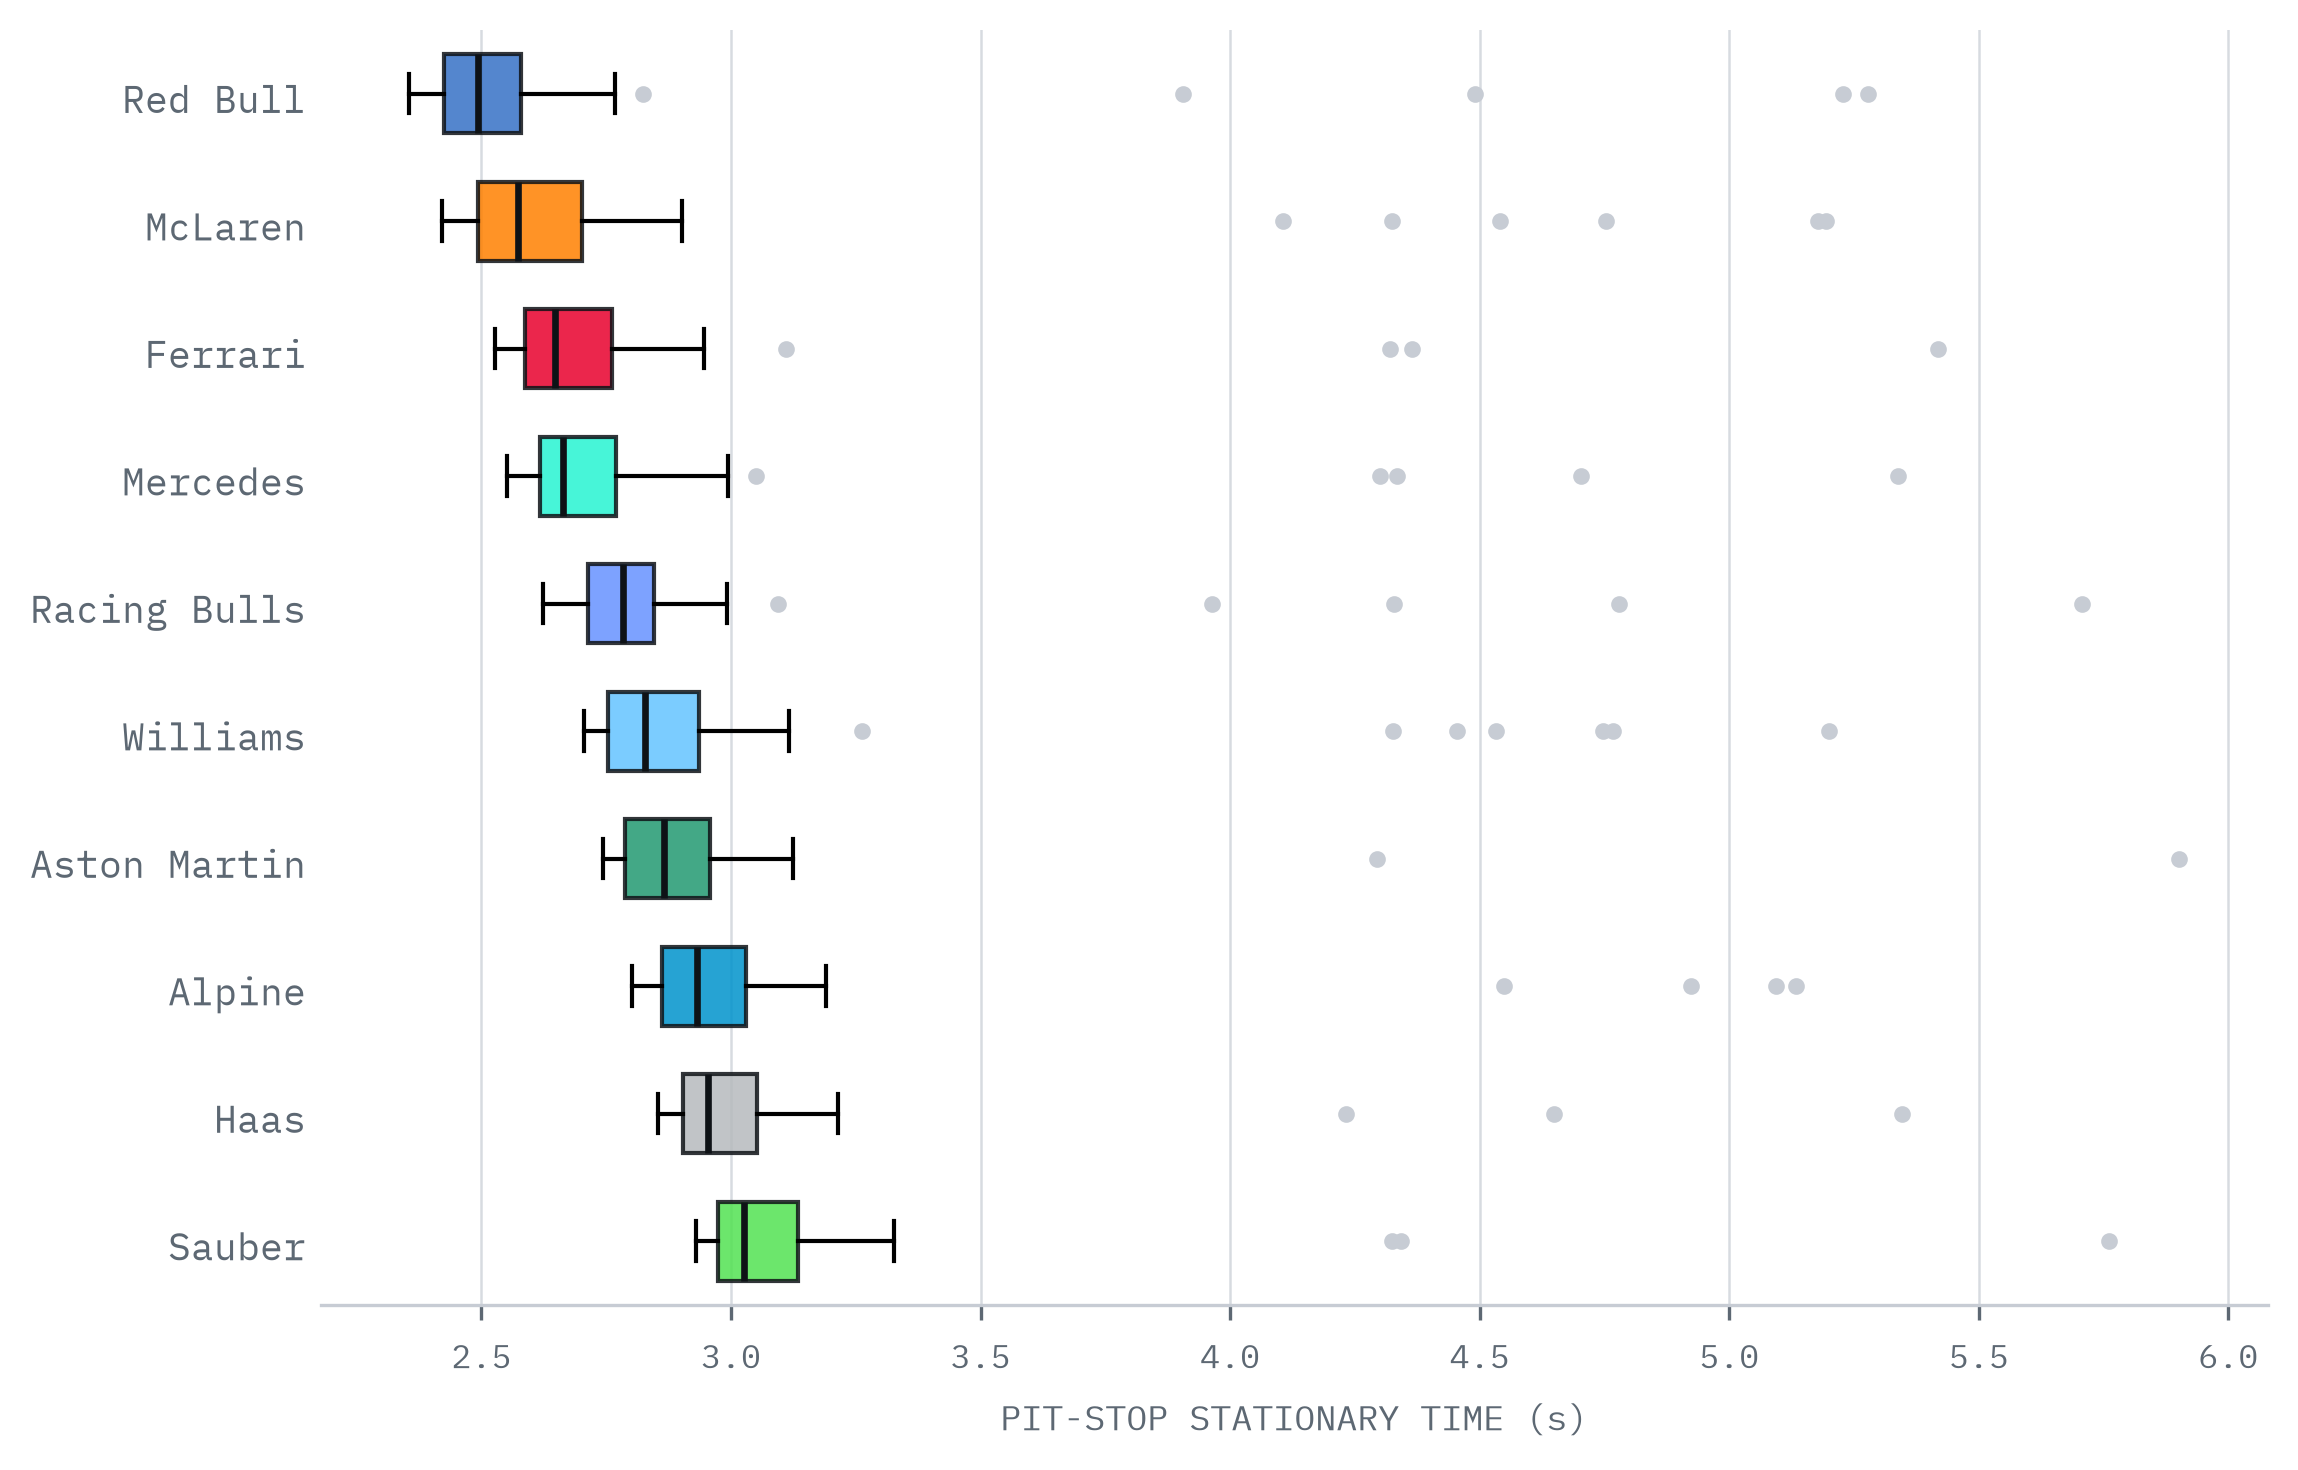
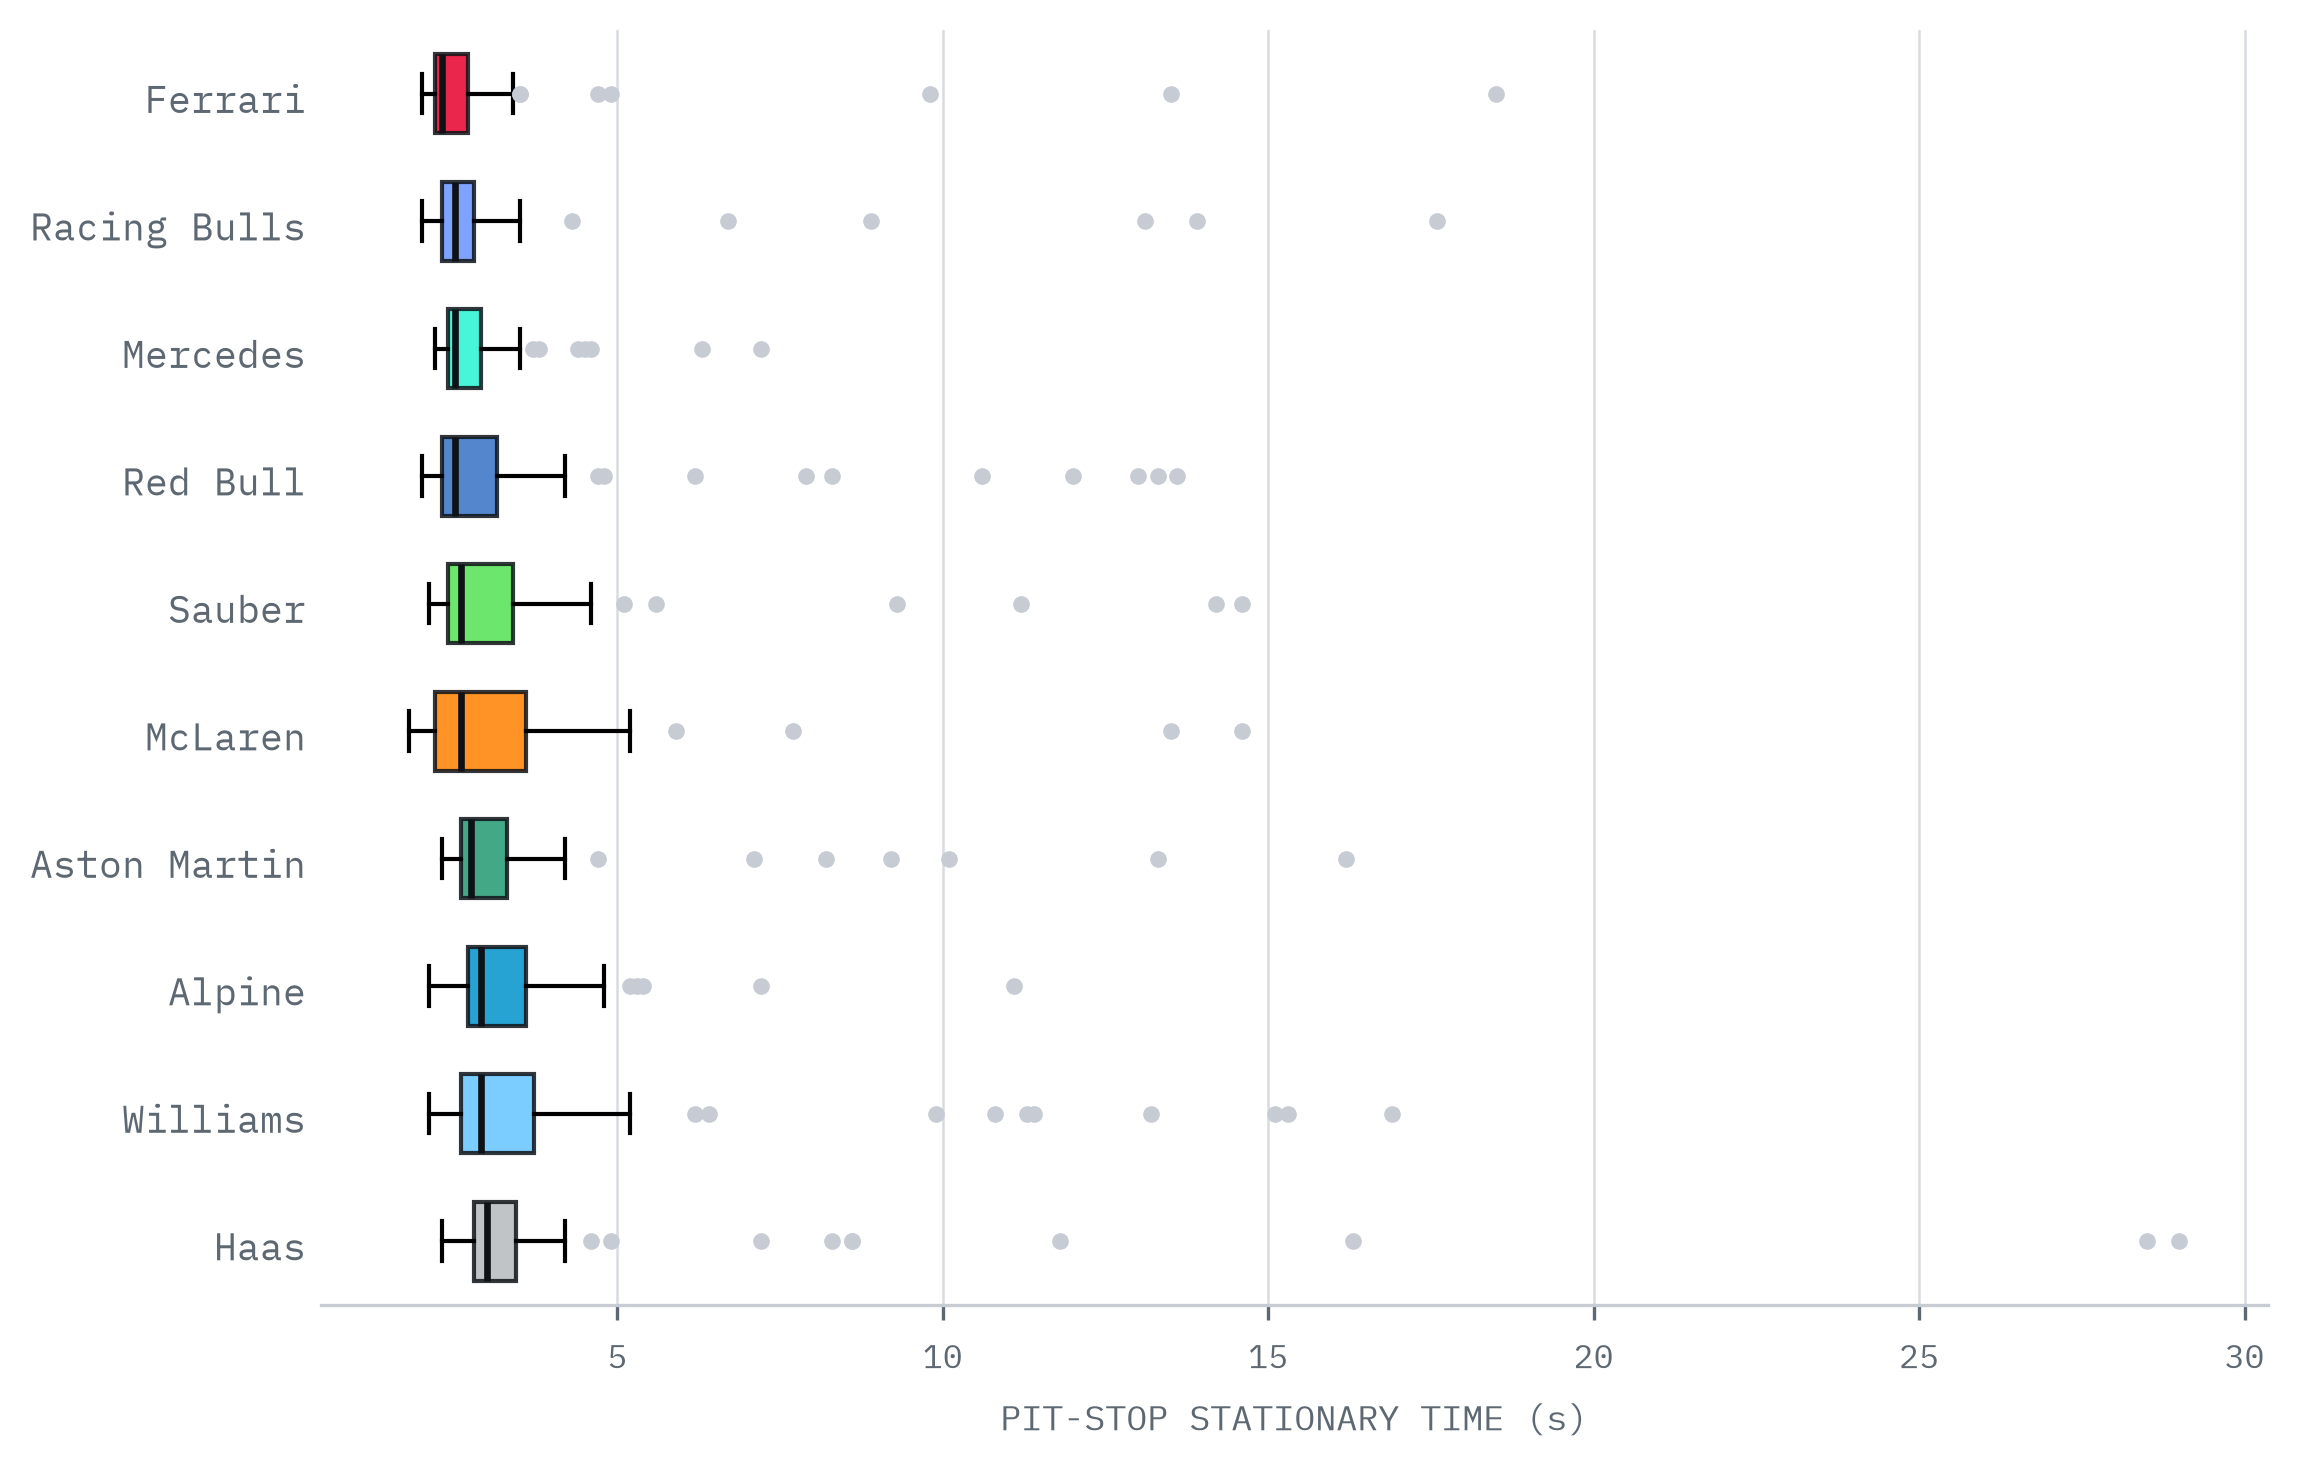
fixed the pit stop data

diff --git a/season_report__draft/report.html b/season_report__draft/report.html
@@ -310,7 +310,7 @@
       <div class="kicker">Section D &middot; Operations</div>
       <h2>The Two-Second Window</h2>
     </div>
-    <div class="methodnote"><strong>PLACEHOLDER DATA</strong> &mdash; pit-stop times here are synthetic; real OpenF1 pit-lane data is pending. Dry races only.</div>
+    <div class="methodnote"><strong>REAL OPENF1 DATA</strong> &mdash; stationary <code>stop_duration</code>, null rows excluded; all 24 races included.</div>
 
     <div class="split">
       <div class="split-main narrative">
@@ -322,9 +322,10 @@
         </div>
         <div class="block">
           <span class="lead-tag">The Read</span>
-          <p>Red Bull's crew were quickest and most consistent (median 2.44&nbsp;s),
-          with McLaren and Ferrari close behind. Sauber and Haas brought up the rear
-          (&asymp;3.0&nbsp;s) on slower medians and wider spreads.</p>
+          <p>Ferrari were quickest on median stationary time (2.30&nbsp;s), with
+          Racing Bulls, Mercedes and Red Bull clustered at 2.50&nbsp;s. Haas brought up
+          the rear at 3.00&nbsp;s, while Williams and Alpine also sat near the slow end
+          at 2.90&nbsp;s.</p>
         </div>
         <div class="block">
           <span class="lead-tag">Speed vs Consistency</span>
@@ -334,7 +335,7 @@
         </div>
         <div class="block">
           <span class="lead-tag">Why It Matters</span>
-          <p>Across roughly 60 stops a season, a half-second median edge is real
+          <p>Across roughly 70 measured stops per team, a half-second median edge is real
           lap-time-equivalent &mdash; and the pit lane is where strategy plans are
           executed or undone under pressure.</p>
         </div>
@@ -343,7 +344,7 @@
       <div class="split-side">
         <figure class="chart-card">
           <img src="assets/pit_performance.png" alt="Pit-stop stationary time distribution by team">
-          <figcaption>Pit-stop stationary times per team, all stops. Box = middle 50%, dots = botched stops.</figcaption>
+          <figcaption>OpenF1 stationary stop times per team, all 24 races. Box = middle 50%, dots = botched stops.</figcaption>
         </figure>
       </div>
     </div>

diff --git a/src/season_etl.py b/src/season_etl.py
@@ -14,6 +14,7 @@ the laps parquet is still written. Retry pits once the live session has ended.
 from __future__ import annotations
 
 import argparse
+import time
 from pathlib import Path
 
 import fastf1
@@ -79,38 +80,57 @@ def build_season_laps(year: int, rounds: list[int] | None = None) -> pd.DataFram
 
 
 def fetch_season_pits(year: int) -> pd.DataFrame:
-    """Pit-lane durations per stop from OpenF1, shaped to the pit contract
-    (Team, Round, Driver, Stationary). Raises if OpenF1 access is restricted."""
+    """Stationary pit-stop times from OpenF1, shaped to the pit contract.
+
+    ``Stationary`` is OpenF1's ``stop_duration`` field. ``lane_duration`` and
+    deprecated ``pit_duration`` are full pit-lane transit times and are not used
+    for pit-crew performance.
+    """
     import requests
 
     UA = {"User-Agent": "f1-report/0.1"}
 
     def get(path: str, **params):
-        r = requests.get(f"https://api.openf1.org/v1/{path}", params=params,
-                         headers=UA, timeout=30)
-        if r.status_code == 401:
-            raise PermissionError(
-                "OpenF1 access restricted (likely a live session in progress). "
-                "Retry once the live session has ended, or use an API key.")
+        url = f"https://api.openf1.org/v1/{path}"
+        for attempt in range(5):
+            r = requests.get(url, params=params, headers=UA, timeout=30)
+            if r.status_code == 401:
+                raise PermissionError(
+                    "OpenF1 access restricted (likely a live session in progress). "
+                    "Retry once the live session has ended, or use an API key.")
+            if r.status_code != 429:
+                r.raise_for_status()
+                time.sleep(2.1)  # OpenF1 free tier: 30 requests/minute.
+                return r.json()
+            wait = 10 + attempt * 5
+            print(f"    OpenF1 rate limit hit; retrying in {wait}s...")
+            time.sleep(wait)
         r.raise_for_status()
-        return r.json()
 
     sessions = get("sessions", year=year, session_name="Race")
     rows = []
-    for s in sessions:
+    for rnd, s in enumerate(sessions, start=1):
         sk = s["session_key"]
-        drivers = {d["driver_number"]: _norm_team(d.get("team_name", ""))
-                   for d in get("drivers", session_key=sk)}
-        acro = {d["driver_number"]: d.get("name_acronym") for d in get("drivers", session_key=sk)}
+        driver_rows = get("drivers", session_key=sk)
+        teams = {d["driver_number"]: _norm_team(d.get("team_name", ""))
+                 for d in driver_rows}
+        acro = {d["driver_number"]: d.get("name_acronym") for d in driver_rows}
         for p in get("pit", session_key=sk):
-            if p.get("pit_duration") is None:
+            if p.get("stop_duration") is None:
                 continue
+            driver_number = p["driver_number"]
             rows.append({
-                "Team": drivers.get(p["driver_number"], ""),
-                "Round": s.get("meeting_key"),  # mapped to RoundNumber below if needed
-                "Driver": acro.get(p["driver_number"]),
-                "Stationary": p["pit_duration"],
+                "Round": rnd,
+                "Circuit": s.get("location"),
+                "SessionKey": sk,
+                "LapNumber": p.get("lap_number"),
+                "DriverNumber": driver_number,
+                "Driver": acro.get(driver_number),
+                "Team": teams.get(driver_number, ""),
+                "Stationary": p["stop_duration"],
+                "LaneDuration": p.get("lane_duration"),
             })
+        print(f"  R{rnd:>2} {s['location']}: pit stops ok")
     return pd.DataFrame(rows)
 
 

diff --git a/season_report__draft/render_assets.py b/season_report__draft/render_assets.py
@@ -1,9 +1,9 @@
 """Regenerate all chart images for the season report.
 
-Uses real 2025 data from data/season_2025_laps.parquet when present (build it
-with `python -m src.season_etl --year 2025`), else falls back to the synthetic
-season_data generator. Pit data uses the real pits parquet if present, else
-synthetic stationary times derived from the (real or dummy) pit-in events.
+Uses real 2025 lap data from data/season_2025_laps.parquet when present (build
+it with `python -m src.season_etl --year 2025`), else falls back to the synthetic
+season_data generator. Pit data uses real OpenF1 stationary stop times if the
+pits parquet is present, else synthetic stationary times derived from pit-in events.
 
     python season_report__draft/render_assets.py
 Writes PNGs into season_report__draft/assets/.
@@ -60,8 +60,8 @@ def main() -> None:
     charts.stops_distribution_bars(stops, ASSETS / "stops_distribution.png")
 
     if PITS_PARQUET.exists():
-        pits = pd.read_parquet(PITS_PARQUET)   # real OpenF1 pit-lane durations
-        print("[real pit data]")
+        pits = pd.read_parquet(PITS_PARQUET)   # real OpenF1 stop_duration
+        print("[real pit data - OpenF1 stop_duration]")
     else:
         pits = season_data.get_pit_stops(dry)  # synthetic until OpenF1 reopens
         print("[synthetic pit data — OpenF1 locked]")
@@ -75,6 +75,9 @@ def main() -> None:
     print(agg.round(2).sort_values("AvgStops", ascending=False).to_string())
     print("\nCircuit degradation (most -> least punishing):")
     print(circ.round(3).to_string())
+    print("\nPit-stop stationary times (s):")
+    print(pits.groupby("Team")["Stationary"].agg(["count", "median", "mean", "max"])
+          .sort_values("median").round(2).to_string())
     print(f"\nRendered assets into {ASSETS}")
 
 